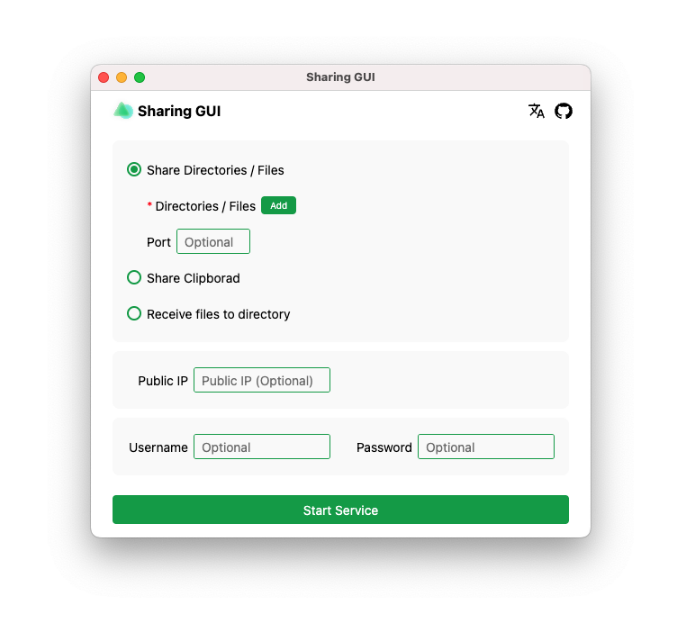
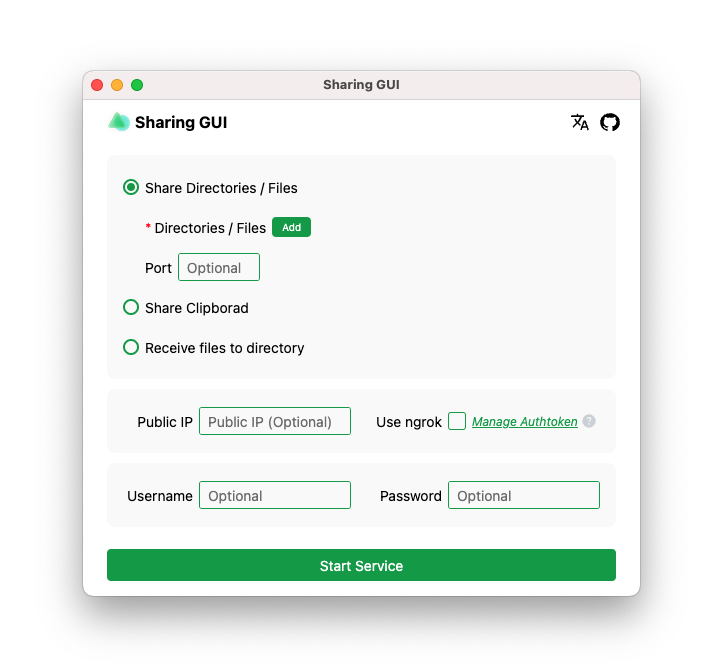
chore: Update version number and README

diff --git a/forge.config.js b/forge.config.js
@@ -1,6 +1,6 @@
 module.exports = {
   packagerConfig: {
-    appVersion: "1.2.0",
+    appVersion: "1.3.0",
     name: "Sharing GUI",
     appCopyright: "yuanx(yuanx.me@qq.com)",
     icon: "./assets/logo-bg-512x512",

diff --git a/README.md b/README.md
@@ -27,6 +27,7 @@ Download from [GitHub Releases](https://github.com/yunying1/sharing-GUI/releases
 - Access your clipboard on other devices
 - Support LAN/Public Network
 - Support identity authentication
+- Support [ngrok](https://ngrok.com/), quickly share to the public network
 
 ## Tips
 
